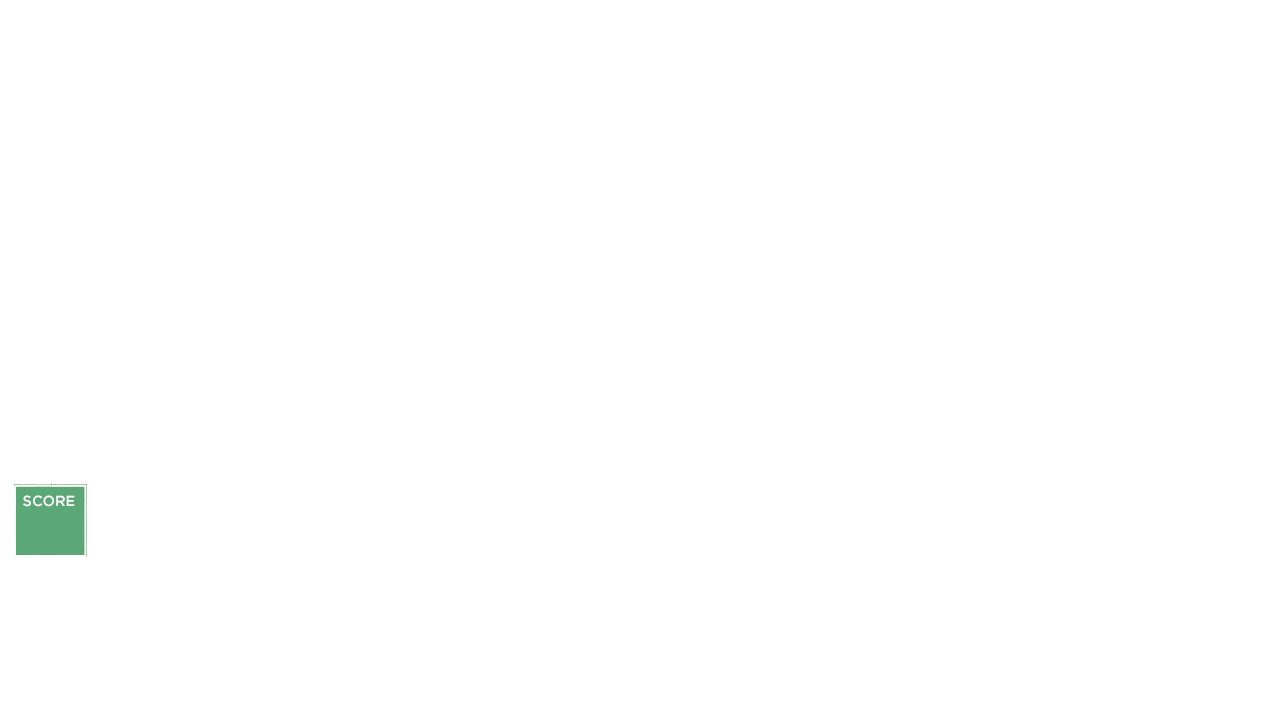
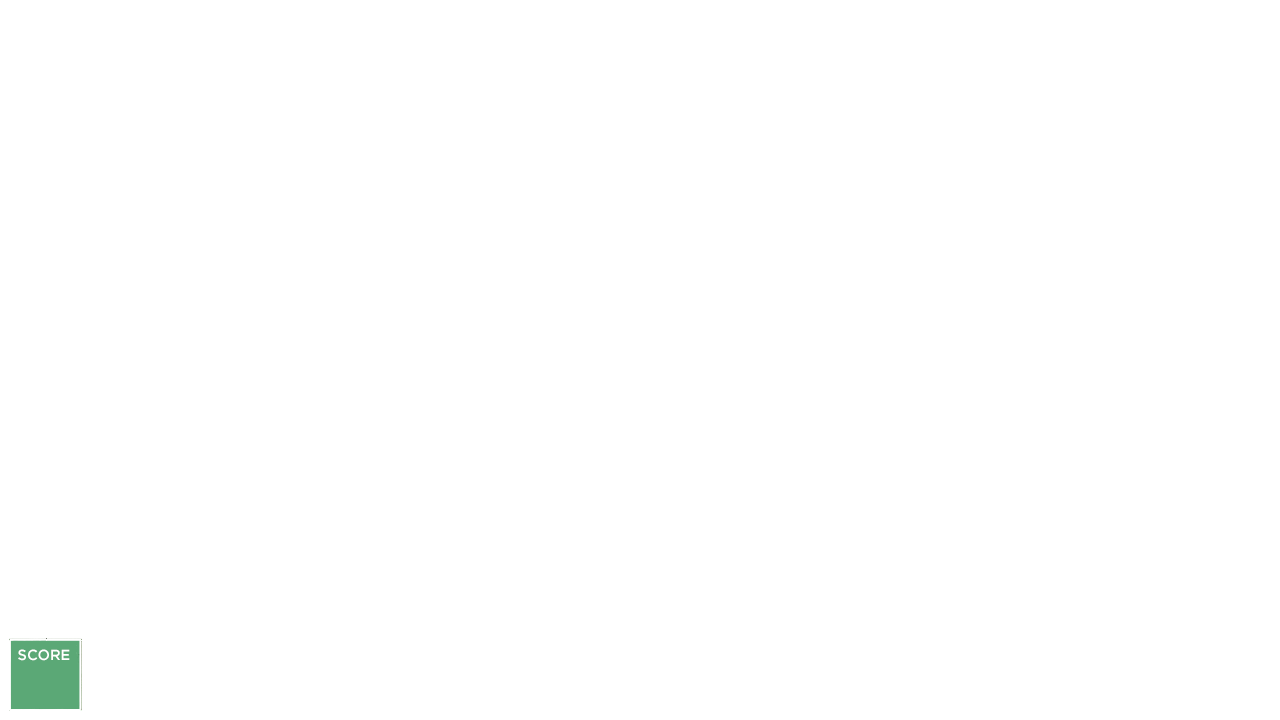
Added reset

Changed region(s): [[0.0, 0.6722, 0.0938, 0.7944], [0.0, 0.8861, 0.0625, 1.0]]

diff --git a/src/breakingbad/BreakingBad.java b/src/breakingbad/BreakingBad.java
@@ -18,8 +18,6 @@ import java.awt.event.MouseEvent;
 import java.awt.event.MouseListener;
 import java.awt.event.KeyEvent;
 import java.awt.event.KeyListener;
-import java.awt.event.ActionListener;
-import java.awt.event.ActionEvent;
 import java.awt.Font;
 import java.io.BufferedReader;
 import java.io.FileReader;
@@ -30,7 +28,7 @@ import java.io.FileWriter;
 import java.io.IOException;
 import java.util.LinkedList;
 
-public class BreakingBad extends JFrame implements Runnable, MouseListener, KeyListener, ActionListener {
+public class BreakingBad extends JFrame implements Runnable, MouseListener, KeyListener {
 
     private Animacion animPaleta; // Animacion de la Paleta (Jugador)
     private Animacion animDEA; // Animacion de DEA
@@ -39,6 +37,7 @@ public class BreakingBad extends JFrame implements Runnable, MouseListener, KeyL
     private Image background; // Imagen del Background
     private Image backScore; // Imagen del score
     private Image imgOver; // Imagen de Game Over
+    private Image imgPause; // Imagen de la pausa
     private long tiempoActual;  // tiempo actual
     private long tiempoInicial; // tiempo inicial
     private Paleta paleta; // Objeto de la Paleta
@@ -56,36 +55,12 @@ public class BreakingBad extends JFrame implements Runnable, MouseListener, KeyL
     private boolean tecla; // flag del teclado
     private boolean gOver; // Bandera de juego perdido
     private Font myFont;
-    private JMenuBar mbGame; // Menu Bar del juego
-    private JMenu menuPrincipal; // Menu Principal
-    private JMenuItem miNuevo, miScore, miSalir; // Elementos del menu principal
 
     /**
      * El metodo constructor de la clase BreakingBad
      */
     public BreakingBad() {
 
-        // Elementos del MenuBar
-        mbGame = new JMenuBar();
-        menuPrincipal = new JMenu("Opciones");
-        miNuevo = new JMenuItem("Nuevo Juego");
-        miScore = new JMenuItem("Score");
-        miSalir = new JMenuItem("Salir");
-
-        // Agregar acciones a los botones del menu
-        miNuevo.addActionListener(this);
-        miScore.addActionListener(this);
-        miSalir.addActionListener(this);
-
-        // Adicionar los botones al Menu Principal
-        menuPrincipal.add(miNuevo);
-        menuPrincipal.add(miScore);
-        menuPrincipal.add(miSalir);
-
-        // Adicionar Menu Principal a mbGame
-        mbGame.add(menuPrincipal);
-
-        setJMenuBar(mbGame);
         setDefaultCloseOperation(JFrame.EXIT_ON_CLOSE);
         setSize(1280, 720);
         setTitle("Breaking Bad: The Game");
@@ -102,6 +77,7 @@ public class BreakingBad extends JFrame implements Runnable, MouseListener, KeyL
         background = Toolkit.getDefaultToolkit().getImage(this.getClass().getResource("images/backBad.gif"));
         backScore = Toolkit.getDefaultToolkit().getImage(this.getClass().getResource("images/backScore.png"));
         imgOver = Toolkit.getDefaultToolkit().getImage(this.getClass().getResource("images/gOver.png"));
+        imgPause = Toolkit.getDefaultToolkit().getImage(this.getClass().getResource("images/pause.png"));
 
         // Animacion de la Paleta
         Image b0 = Toolkit.getDefaultToolkit().getImage(this.getClass().getResource("images/fedora.png"));
@@ -160,14 +136,6 @@ public class BreakingBad extends JFrame implements Runnable, MouseListener, KeyL
         animPelota.sumaCuadro(b16, 100);
         animPelota.sumaCuadro(b17, 100);
 
-        paleta = new Paleta(0, 0, animPaleta);
-        paleta.setPosX(this.getWidth() / 2 - paleta.getAncho() / 2);
-        paleta.setPosY(this.getHeight() - paleta.getAlto() - 10);
-
-        pelota = new Pelota(0, 0, animPelota);
-        pelota.setPosX(paleta.getPosX() + paleta.getAncho() / 2 - pelota.getAncho() / 2);
-        pelota.setPosY(paleta.getPosY() - pelota.getAlto());
-
         // Animacion de DEA
         Image dea1 = Toolkit.getDefaultToolkit().getImage(this.getClass().getResource("images/1.PNG"));
         Image dea2 = Toolkit.getDefaultToolkit().getImage(this.getClass().getResource("images/2.PNG"));
@@ -196,21 +164,39 @@ public class BreakingBad extends JFrame implements Runnable, MouseListener, KeyL
         paleta.setPosX(this.getWidth() / 2 - paleta.getAncho() / 2);
         paleta.setPosY((this.getHeight() - paleta.getAlto()) - 8);
 
+        pelota = new Pelota(0, 0, animPelota);
+        pelota.setPosX(paleta.getPosX() + paleta.getAncho() / 2 - pelota.getAncho() / 2);
+        pelota.setPosY(paleta.getPosY() - pelota.getAlto());
+
         addMouseListener(this);
         addKeyListener(this);
         Thread th = new Thread(this);
         th.start();
     }
-    
+
     /**
-     * Maneja los eventos que suceden al accionar algun
-     * boton del JMenuBar
-     * @param e evento del MenuItem
+     * Reinicia los valores iniciales si el jugador desea jugar de nuevo.
      */
-    public void actionPerformed(ActionEvent e) {
-        if (e.getSource() == miSalir) {
-            System.exit(0);
+    public void reinicia() {
+        score = 0;
+        pausa = false;
+        inicio = false;
+        tecla = false;
+        gOver = false;
+        peMovx = paMov = 0;
+        peMovy = 5;
+
+        paleta.setPosX(this.getWidth() / 2 - paleta.getAncho() / 2);
+        paleta.setPosY((this.getHeight() - paleta.getAlto()) - 8);
+        pelota.setPosX(paleta.getPosX() + paleta.getAncho() / 2 - pelota.getAncho() / 2);
+        pelota.setPosY(paleta.getPosY() - pelota.getAlto());
+        link.clear();
+        for (int i = 50; i < 236; i += 59) {
+            for (int j = 45; j < 1130; j += 150) {
+                link.add(new Meth(j, i, animMeth));
+            }
         }
+
     }
 
     public void run() {
@@ -246,10 +232,10 @@ public class BreakingBad extends JFrame implements Runnable, MouseListener, KeyL
     }
 
     public void checaColision() {
-        if (pelota.getPosX() < 0) {
+        if (pelota.getPosX() < 10) {
             peMovx = Math.abs(peMovx);
         }
-        if (pelota.getPosX() + pelota.getAncho() > this.getWidth()) {
+        if (pelota.getPosX() + pelota.getAncho() > this.getWidth() - 10) {
             peMovx = -Math.abs(peMovx);
         }
         if (pelota.getPosY() < 50) {
@@ -304,12 +290,12 @@ public class BreakingBad extends JFrame implements Runnable, MouseListener, KeyL
 
     public void paint1(Graphics g) {
 
-         g.drawImage(background, 0 ,0, this);
-         g.drawImage(backScore, 0 ,0, this);
-         g.setFont(myFont); // Aplica el estilo fuente a las string
-         g.setColor(Color.white);
-         g.drawString("" + score, 25, 540);
-         
+        g.drawImage(background, 0, 0, this);
+        g.drawImage(backScore, 0, 0, this);
+        g.setFont(myFont); // Aplica el estilo fuente a las string
+        g.setColor(Color.white);
+        g.drawString("" + score, 25, 694);
+
         if (paleta.getAnimacion() != null) {
             g.drawImage(paleta.animacion.getImagen(), paleta.getPosX(), paleta.getPosY(), this);
         }
@@ -321,9 +307,9 @@ public class BreakingBad extends JFrame implements Runnable, MouseListener, KeyL
             meth = (Meth) (link.get(i));
             g.drawImage(meth.animacion.getImagen(), meth.getPosX(), meth.getPosY(), this);
         }
-        
+
         if (gOver) {
-            g.drawImage(imgOver, 0 ,0, this);
+            g.drawImage(imgOver, 0, 0, this);
         }
     }
 
@@ -390,6 +376,12 @@ public class BreakingBad extends JFrame implements Runnable, MouseListener, KeyL
         }
         if (e.getKeyCode() == KeyEvent.VK_ENTER) {
             inicio = true;
+        }
+
+        if (e.getKeyCode() == KeyEvent.VK_R) {
+            if(gOver) {
+                reinicia();
+            }
         }
     }
 
